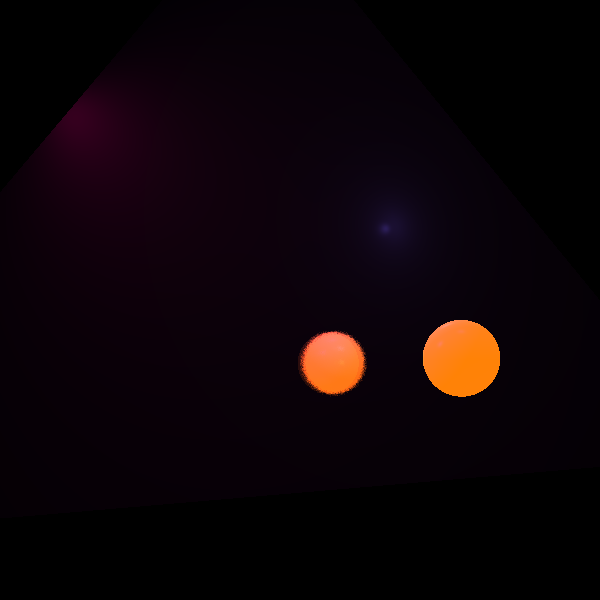
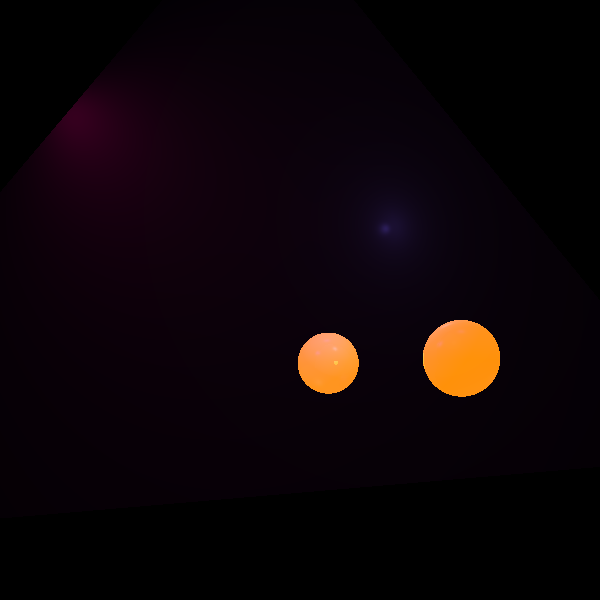
Mini Project 2 scene2

Changed region(s): [[0.48, 0.54, 0.63, 0.66]]

diff --git a/tests/elements/ReflectionRefractionTests.java b/tests/elements/ReflectionRefractionTests.java
@@ -317,7 +317,7 @@ public class ReflectionRefractionTests {
                 .setKl(4E-5).setKq(2E-7));
         ImageWriter imageWriter = new ImageWriter("ImageTest", 600, 600);
         BasicRayTracer BS=new BasicRayTracer(scene);
-        BS.setSampleCount(10);
+        BS.setSampleCount(1);
         Render render = new Render() //
                 .setImageWriter(imageWriter) //
                 .setCamera(camera) //
@@ -539,7 +539,7 @@ public class ReflectionRefractionTests {
     }
 
     @Test
-    public void ImageTest2() {
+    public void ImageTestScene2() {
 //        Camera camera = new Camera(new Point3D(-8, -8, 100), new Vector(0, 0, -10), new Vector(0, 1, 0)) //
 //                .setViewPlaneSize(200, 200).setDistance(1000);
         Camera camera = new Camera(new Point3D(-7.68, -1.97, 0), new Vector(1.1, 0.2, 0), new Vector(0, 0, 1)) //
@@ -730,11 +730,10 @@ public class ReflectionRefractionTests {
 ////                        .setKl(1E-5).setKq(1.5E-7));
 //        scene.lights.add(new SpotLight(new Color(2000, 2000, 2000), new Point3D(-8.19, -5.44, 2), new Vector(-1.4,3.73,5)));
 
-        ImageWriter imageWriter = new ImageWriter("OurImageImprovementSupersampling", 600, 600);
+        ImageWriter imageWriter = new ImageWriter("OurImageScene2", 600, 600);
         BasicRayTracer BS=new BasicRayTracer(scene);
         BS.setSampleCount(1);
         Render render = new Render();
-                 render.setAmountRays(80);//
                 render.setImageWriter(imageWriter) //
                 .setCamera(camera) //
                 .setRayTracer(BS);
@@ -1116,6 +1115,73 @@ public class ReflectionRefractionTests {
         render.renderImage();
         render.writeToImage();
     }
+    public void ImageTest2() {
+//        Camera camera = new Camera(new Point3D(-8, -8, 100), new Vector(0, 0, -10), new Vector(0, 1, 0)) //
+//                .setViewPlaneSize(200, 200).setDistance(1000);
+        Camera camera = new Camera(new Point3D(-7.68, -1.97, 0), new Vector(1.1, 0.2, 0), new Vector(0, 0, 1)) //
+                .setViewPlaneSize(200, 200).setDistance(350);
+        scene.setAmbientLight(new AmbientLight(new Color(java.awt.Color.black), 0.15));
+        /*1*/
+        scene.geometries.add(
+                //  /*14*/new Sphere(0.3, new Point3D(-1.29,0.8,0.23)).setEmmission(new Color(217,1,21)).setMaterial(new Material().setKd(0.2).setKs(0.2).setShininess(100).setKt(0.5).setKr(0.3)),
+                /*2*/new Sphere(0.4, new Point3D(6.76,6.95,0)).setEmmission(new Color(java.awt.Color.black)) .setMaterial(new Material().setKd(0.2).setKs(0.2).setShininess(30).setKt(1).setKr(0)),
+                /*14*/new Sphere(0.15, new Point3D(6.76,6.95,0)).setEmmission(new Color(249,66,158)) .setMaterial(new Material().setKd(0.2).setKs(0.2).setShininess(100).setKt(0.9).setKr(0)),
+                new Polygon(new Point3D(6,-6,-3),new Point3D(5.28,-3.92,0),new Point3D(6,-2,-3)).setEmmission(new Color(217,1,21)).setMaterial(new Material().setKd(0.2).setKs(0.2).setShininess(100).setKt(0.5).setKr(0.3)),
+                new Polygon(new Point3D(6,-2,-3),new Point3D(5.28,-3.92,0),new Point3D(3,-2,-3)).setEmmission(new Color(217,1,21)).setMaterial(new Material().setKd(0.2).setKs(0.2).setShininess(100).setKt(0.5).setKr(0.3)),
+                new Polygon(new Point3D(3,-2,-3),new Point3D(5.28,-3.92,0),new Point3D(3,-6,-3)).setEmmission(new Color(217,1,21)).setMaterial(new Material().setKd(0.2).setKs(0.2).setShininess(100).setKt(0.5).setKr(0.3)),
+                new Polygon(new Point3D(3,-6,-3),new Point3D(5.28,-3.92,0),new Point3D(6,-6,-3)).setEmmission(new Color(217,1,21)).setMaterial(new Material().setKd(0.2).setKs(0.2).setShininess(100).setKt(0.5).setKr(0.3)),
+                new Polygon(new Point3D(3,-6,-3),new Point3D(3,-2,-3),new Point3D(6,-2,-3),new Point3D(6,-6,-3)).setEmmission(new Color(217,1,21)).setMaterial(new Material().setKd(0.2).setKs(0.2).setShininess(100).setKt(0.5).setKr(0.3)),
+                new Polygon(new Point3D(3.75,14.23,-4),new Point3D(16.7,2,-4),new Point3D(12.57,1.59,10)).setMaterial(new Material().setKd(0.2).setKs(0.2).setShininess(30).setKt(0).setKr(1)),
+                new Polygon(new Point3D(12.57,1.59,10),new Point3D(2.87,-14.39,-4),new Point3D(14.7,2,-4)).setMaterial(new Material().setKd(0.2).setKs(0.2).setShininess(30).setKt(0).setKr(0)));
+        boolean turnon4=true;
+        if(turnon4){
+            scene.lights.add(new SpotLight(new Color(219,0,115), new Point3D(-1.38, 0.71, 1.34), new Vector(0.46, -0.46, -0.62)) //
+                    .setKl(4E-5).setKq(2E-7));}// le rose sur le plane
+//        scene.lights.add(new PointLight(new Color(400, 750, 500), new Point3D(-0.33, -0.77, -0.3)) // new Vector(0.19, -2.56, 5)
+//                .setKl(4E-5).setKq(2E-7));
+//        scene.lights.add(new PointLight( new Color(400, 750, 500), new Point3D(0.13, -1.03, 1.16)) // new Vector(0.19, -2.56, 5)
+//                .setKl(4E-5).setKq(2E-7));
+        // scene.lights.add(new SpotLight(new Color(400, 750, 500),new Point3D(2.33,-0.63,0.68), new Vector(-0.43,0,-0.04))  .setKl(4E-5).setKq(2E-7)); // new Vector(0.19, -2.56, 5)
+        boolean turnon3=true;
+        if(turnon3){
+            scene.lights.add(new PointLight(new Color(96, 80, 220), new Point3D(0.11,-1.32,0.56))//lumiere au fond plane blanche
+                    .setKl(0.00001).setKq(0.000001)); }// new Vector(0.19, -2.56, 5)
+        boolean turnon1=true;
+        if(turnon1) {
+            scene.lights.add(new DirectionalLight(new Color(75, 0, 130), new Vector(0, 0, -1))); // lumiere bleu sur plane
+        }
+        boolean turnon2=true;
+        if(turnon2) {
+            scene.lights.add(new SpotLight(new Color(0, 0, 400), new Point3D(1.77, -1.44, 1.77), new Vector(-0.18, 0.17, -0.33)) //
+                    .setKl(4E-5).setKq(2E-7));// le bleute sur le devant du plane
+        }
+//        scene.lights.add(new PointLight(new Color(255, 255, 255), new Point3D(-0.6,-1.4,0))//lumiere au fond plane blanche
+//                .setKl(0.00001).setKq(0.000001)); // new Vector(0.19, -2.56, 5)
+//        scene.lights.add(new PointLight(new Color(400, 750, 500), new Point3D(1.5,-0.3,1.98))//
+//                .setKl(4E-5).setKq(2E-7));
+        scene.lights.add(new PointLight(new Color(155, 155, 155), new Point3D(-0.61,-0.36,00.22))//lumiere au fond plane blanche
+                .setKl(0.00001).setKq(0.000001));
 
+        //    .setKl(4E-5).setKq(2E-7));
+        scene.lights.add(new PointLight(new Color(254,191,210), new Point3D(1,0.1,1.05)) // new Vector(0.19, -2.56, 5)
+                .setKl(4E-5).setKq(2E-7));
+        //  scene.lights.add( //
+//                new SpotLight(new Color(400, 240, 0), new Point3D(-8, 5, 0), new Vector(0, -6, 0)) //
+////                        .setKl(1E-5).setKq(1.5E-7));
+//        scene.lights.add(new SpotLight(new Color(2000, 2000, 2000), new Point3D(-8.19, -5.44, 2), new Vector(-1.4,3.73,5)));
+
+        ImageWriter imageWriter = new ImageWriter("OurImageImprovementAdaptiveSupersampling", 600, 600);
+        BasicRayTracer BS=new BasicRayTracer(scene);
+        BS.setSampleCount(10);
+        Render render = new Render() //
+                .setImageWriter(imageWriter) //
+                .setCamera(camera) //
+                .setRayTracer(BS);
+        // .setMultithreading(3).setDebugPrint();
+        //  render.setLevel_adaptive_supersampling(10);
+
+        render.renderImage();
+        render.writeToImage();
+    }
 
 }
